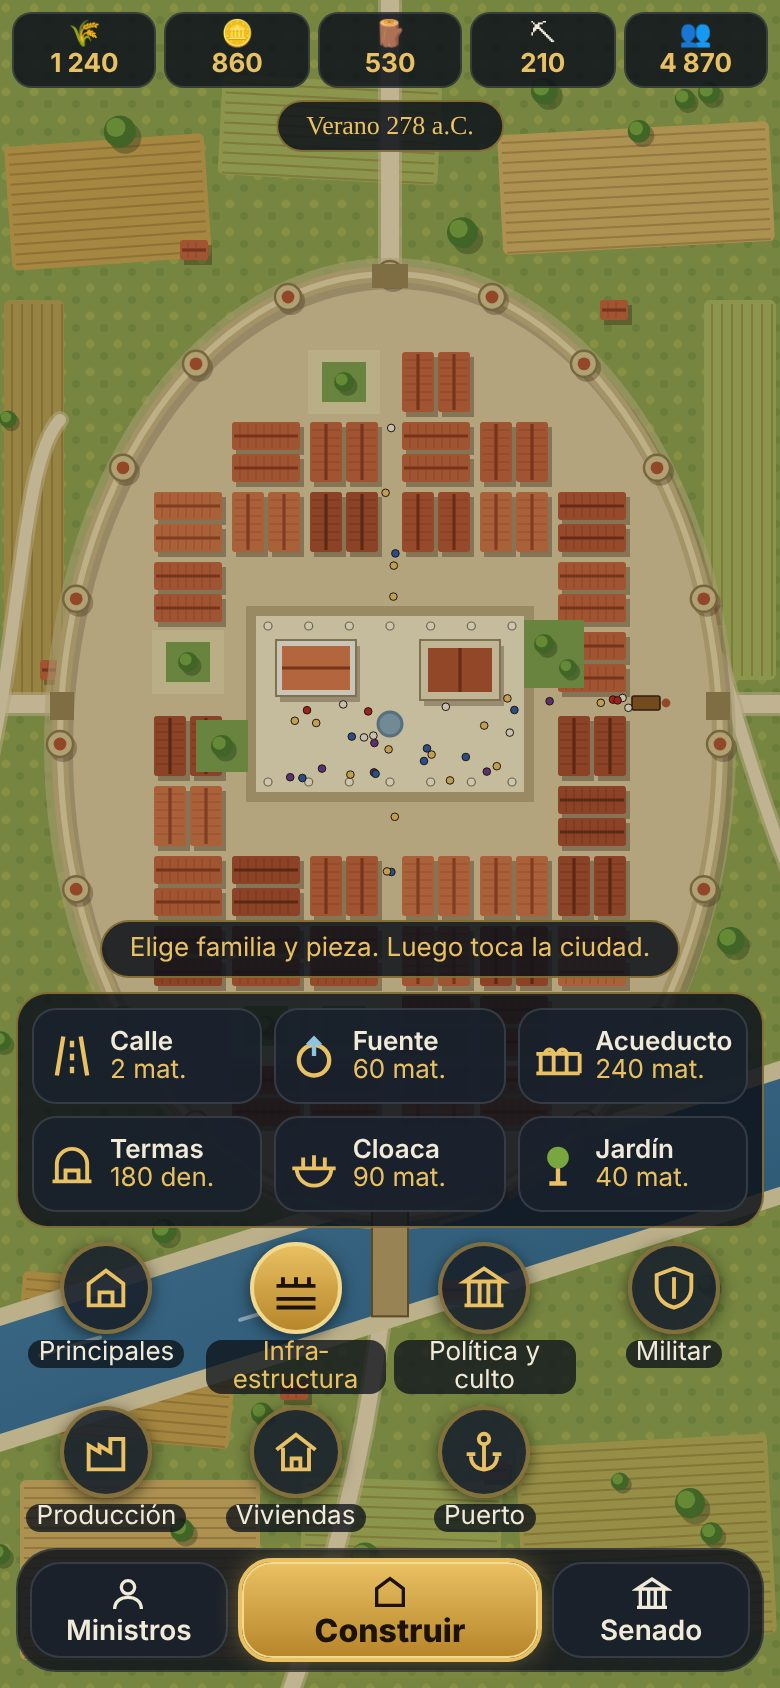
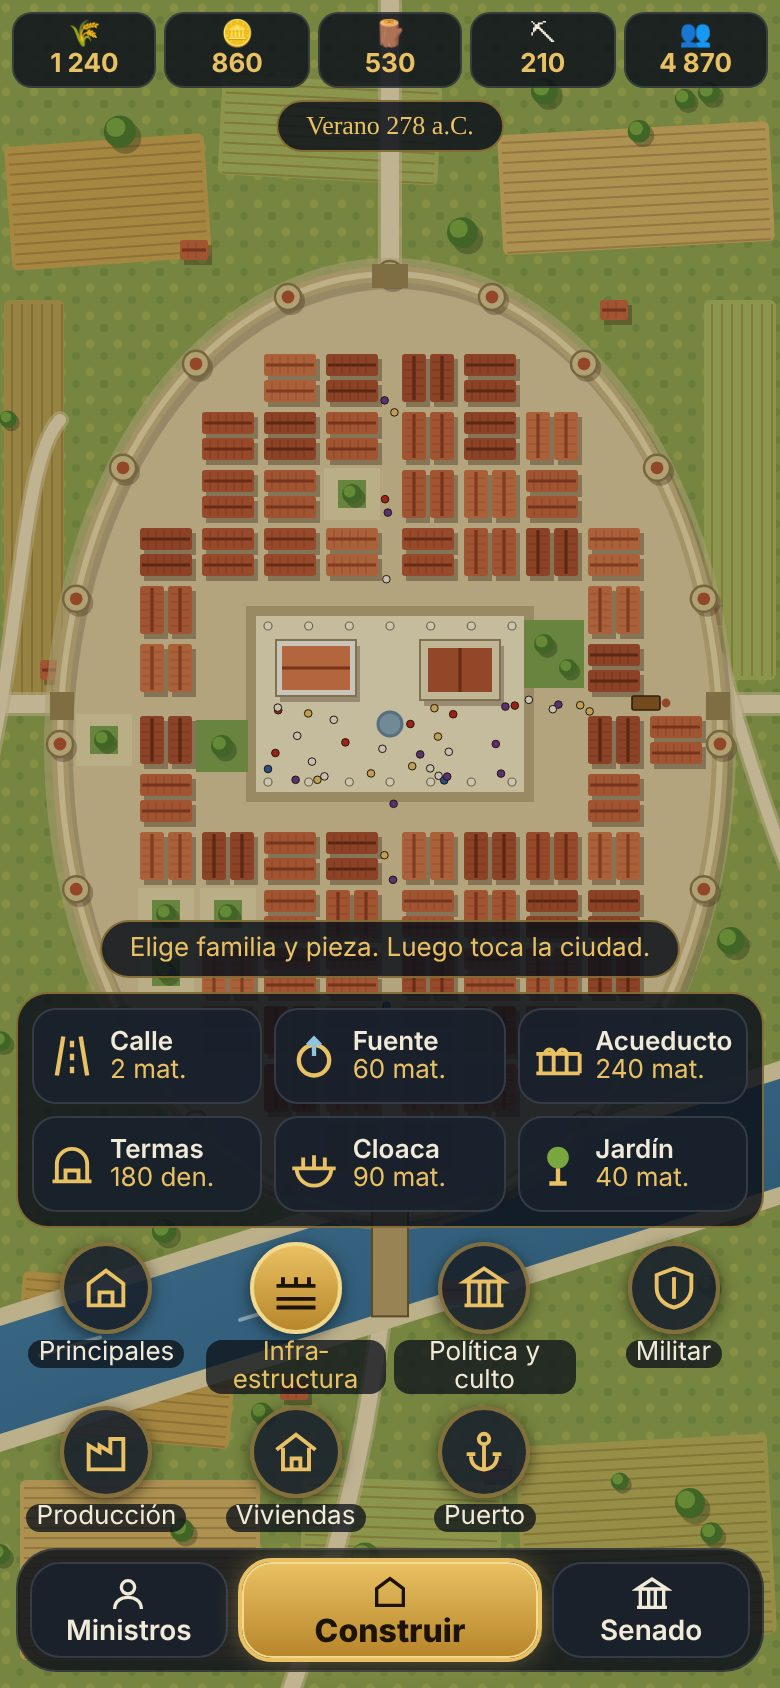
CD0: maqueta arreglada (calle fuera de las casas, ciudad apretada, ministros completos) y parte cerrado
Claude-Session: https://claude.ai/code/session_01QiKC3AwfFJFCa4GqaV2diE

diff --git a/gobierno/partes/2026-11-23-CD0.md b/gobierno/partes/2026-11-23-CD0.md
@@ -20,5 +20,6 @@ Idea: cada vecino con nombre y familia (Iberus), para CD5 o después.
 - **Parques y jardines**: (A) dentro de Infraestructura [recomendado]; (B) en Principales. Por qué: con siete familias no cabe una octava sin apretar el menú.
 - **Ministros y bandos**: (A) cada ministro es el jefe de un bando de CE1 y su encargo contenta a su bando [recomendado]; (B) ministros neutros, sin bando. Por qué: une ciudad y Senado sin pantalla nueva.
 - **Plan del Senado**: (A) si el Senado lo rechaza, puedes cambiar obras y votar otra vez en la misma estación [recomendado]; (B) esperar a la siguiente.
-**Jueces**: `juez-area.mjs cerebro` — ver abajo.
-**Cuentas**: presupuesto 1,4 M (Opus 0,8 · Sonnet 0,6) · gastado: ver abajo.
+**Jueces**: `juez-area.mjs cerebro` APTO, 5 pruebas, 82 s; `--archivos`: todo en casa. Capturas miradas por el director (una vuelta de arreglos: calle fuera de las casas, ciudad más apretada, medallón de Comercio, CD0-4b nueva).
+**Cuentas**: presupuesto 1,4 M (Opus 0,8 · Sonnet 0,6) · gastado ≈1,4 M al cerrar (−1 % en la última medida): Opus 0,96 (director: preguntas, vídeos, documentos) · Sonnet 0,42 (constructor, dos vueltas). Ahorro: el plano en SVG en vez de capturas del juego evitó cargar la ciudad 3D.
+**Queda pendiente**: que el usuario suba los vídeos a su Drive (fuera del repositorio). Del carril, CD1 a CD6 en el tablero, con el vigía.
